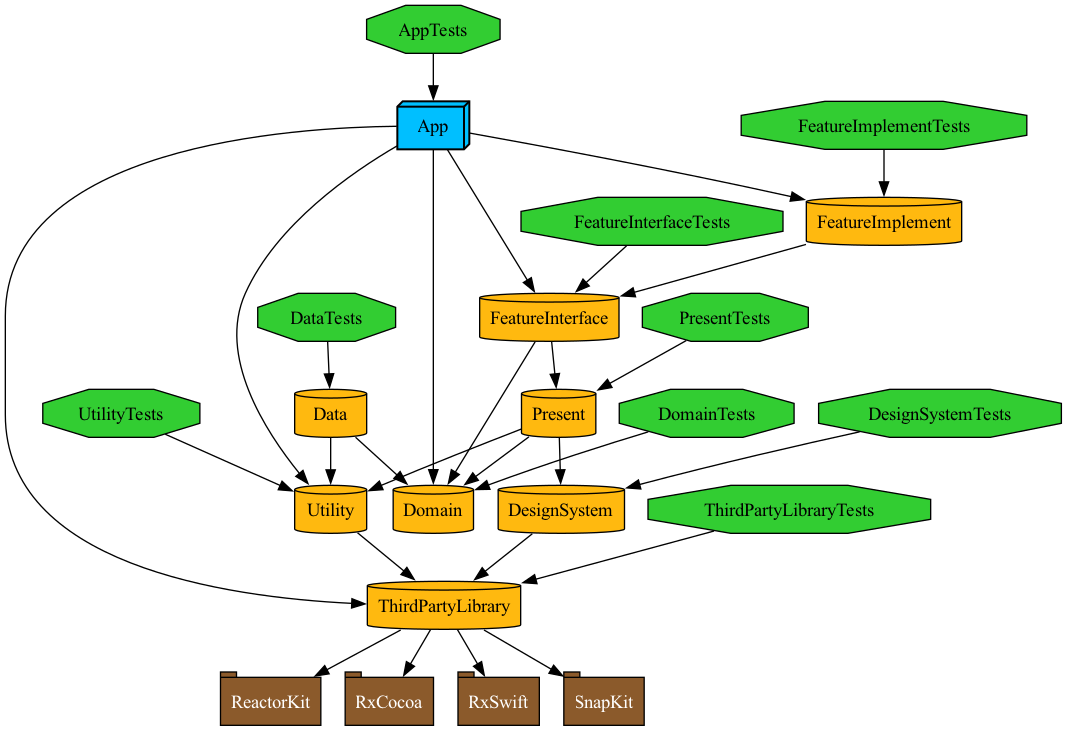
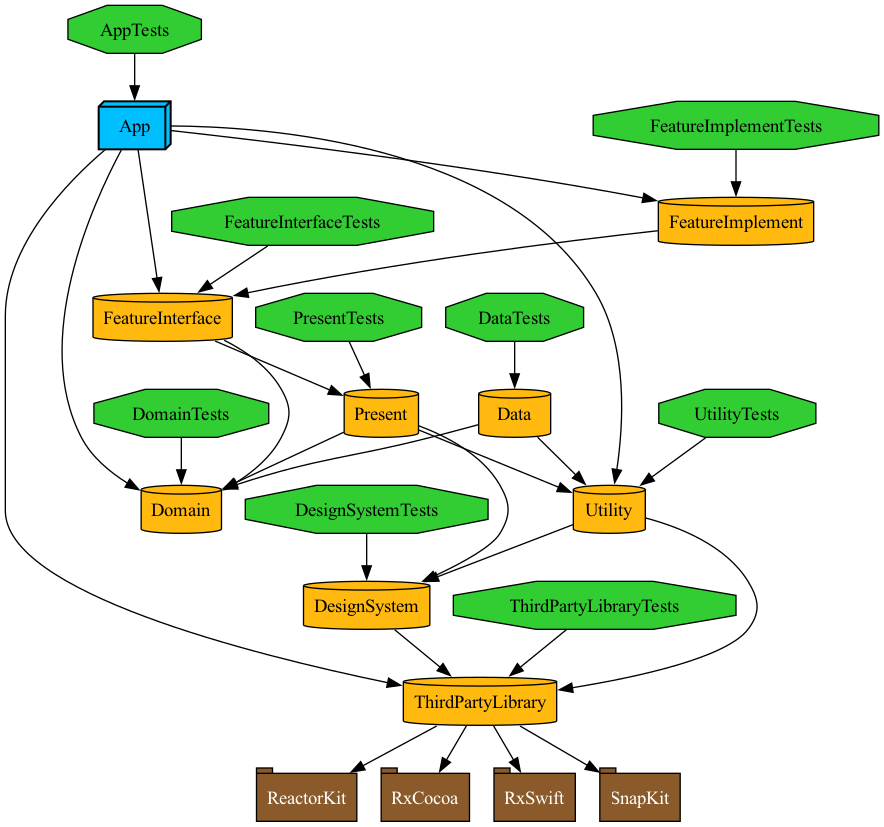
feat: DesignModule 의존 Utility 의존 주입

diff --git a/Projects/App/Project.swift b/Projects/App/Project.swift
@@ -18,7 +18,7 @@ let project = Project(
             name: "App",
             destinations: [.iPhone, .iPad],
             product: .app,
-            bundleId: "com.den.workchecklist",
+            bundleId: "com.den.growtimer",
             deploymentTargets: .iOS("16.0"),
             infoPlist: .extendingDefault(with: [
                 "UILaunchStoryboardName": "LaunchScreen",

diff --git a/Projects/Utility/Project.swift b/Projects/Utility/Project.swift
@@ -24,6 +24,7 @@ let project = Project(
             sources: ["Sources/**"],
             resources: ["Resources/**"],
             dependencies: [
+                .project(target: "DesignSystem", path: "../DesignSystem"),
                 .project(target: "ThirdPartyLibrary", path: "../ThirdPartyLibrary"),
             ],
         ),
